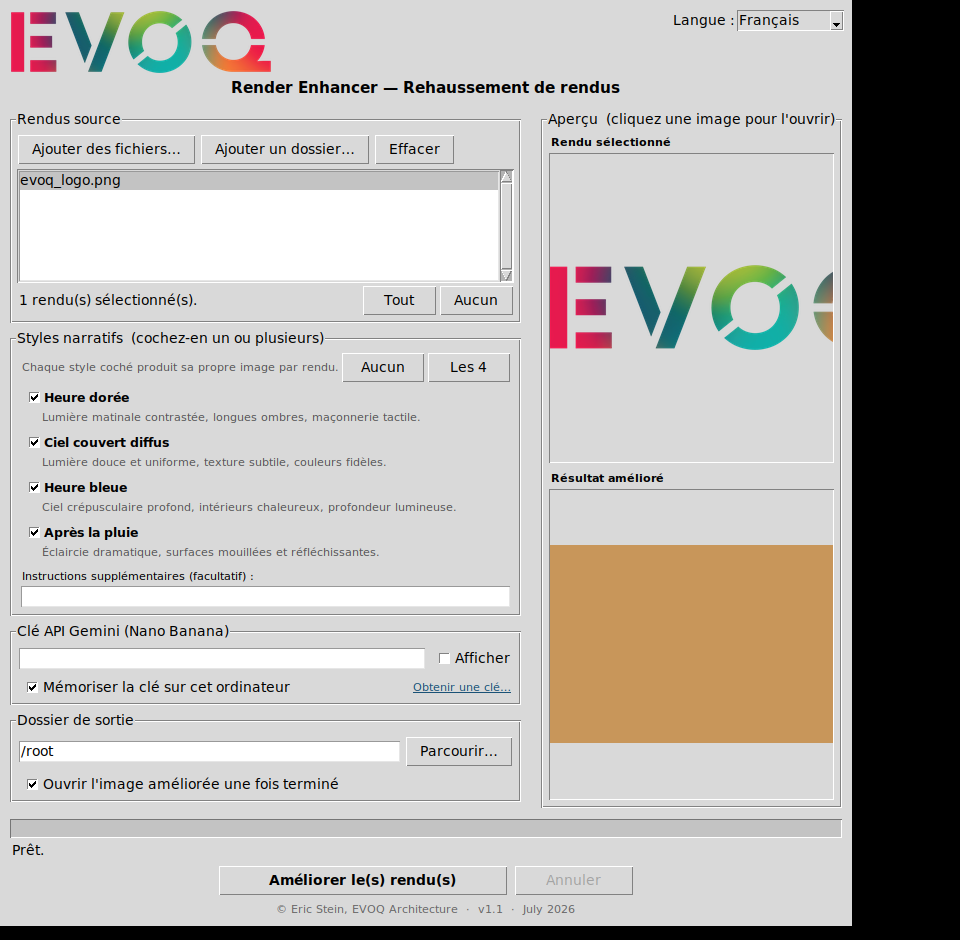
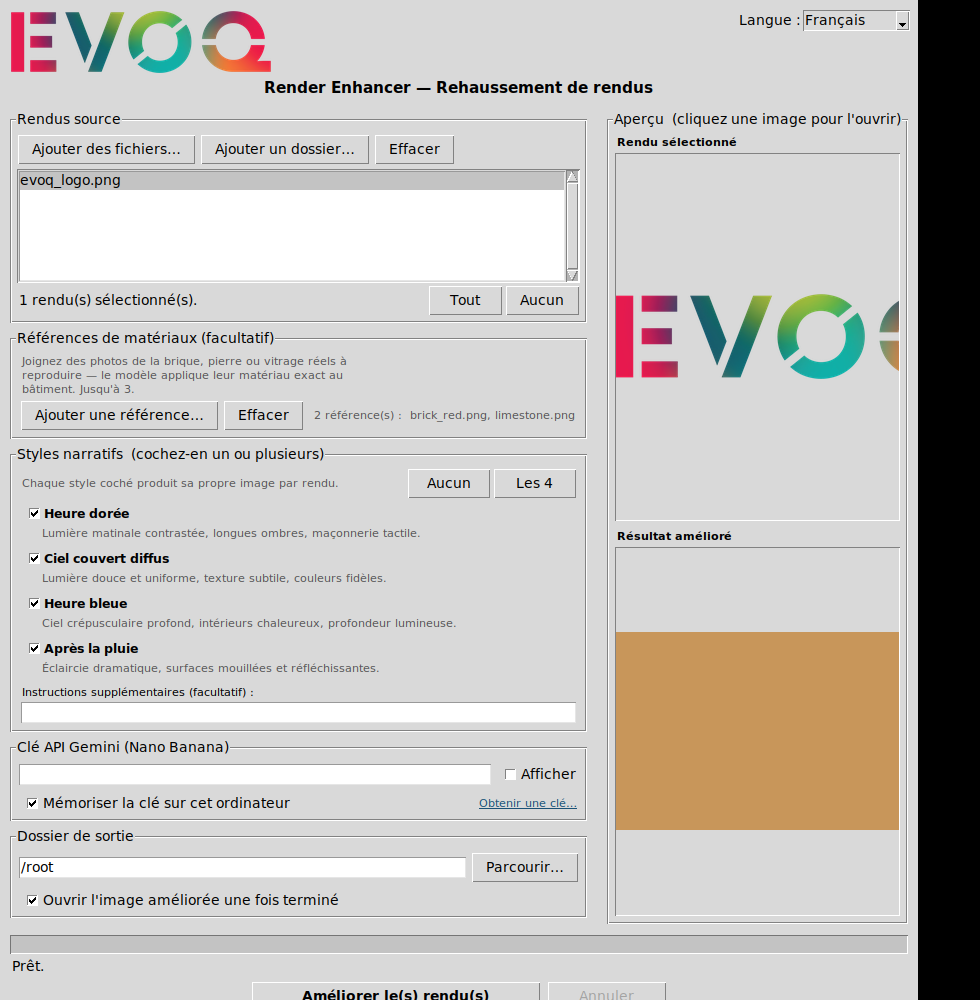
Render Enhancer: attach material reference photos for brick/stone/glass fidelity
Add an optional 'Material References' panel to attach up to 3 real material
swatch photos (brick, stone, glass). They are sent alongside each render on
every request (downscaled to 1280px) with an instruction to reproduce their
exact colour, texture, mortar, weathering, finish and reflectivity on the
matching surfaces while preserving geometry — the strongest lever for material
realism. Fully localised (EN/FR), capped at 3, preserved across language
switches. README and screenshots updated.

Claude-Session: https://claude.ai/code/session_015eGte1JwQfTwFnQ6eJaJkd

diff --git a/render_enhancer.py b/render_enhancer.py
@@ -63,7 +63,22 @@ GEMINI_ENDPOINT = (
 
 IMAGE_EXTS = {'.jpg', '.jpeg', '.png', '.webp', '.bmp'}
 MAX_UPLOAD_PX = 2048   # downscale huge renders before upload to stay within limits
+MAX_REF_PX = 1280      # material reference swatches need less resolution
+MAX_REFS = 3           # max material reference images per request
 REQUEST_TIMEOUT = 180  # seconds per image
+
+# Appended to the prompt when material reference photos are attached.
+REF_INSTRUCTION = (
+    "\nMaterial reference: the FIRST attached image is the architectural render "
+    "to enhance; the remaining attached image(s) are real material reference "
+    "photographs. Faithfully reproduce the exact materials shown in those "
+    "references — the brick, stone, metal and glass — matching their true colour, "
+    "surface texture, mortar joints, weathering, finish and reflectivity, and "
+    "apply them to the corresponding surfaces of the building. Do not copy the "
+    "references' shapes, lighting or composition; use them only as material "
+    "samples, while strictly preserving the render's geometry, viewpoint and "
+    "proportions."
+)
 MAX_RETRIES = 3        # attempts per request on transient errors
 RETRYABLE_STATUS = {429, 500, 502, 503, 504}
 
@@ -183,6 +198,15 @@ I18N = {
         "count_some": "{sel} of {total} renders selected.",
         "no_images_title": "No Images",
         "no_images_msg": "No images found in that folder.",
+        "ref_frame": "Material References (optional)",
+        "ref_hint": ("Attach photos of the real brick, stone or glass to "
+                     "reproduce — the model copies their exact material onto the "
+                     "building. Up to 3."),
+        "ref_add": "Add reference…",
+        "ref_none": "No references.",
+        "ref_count": "{n} reference(s):",
+        "ref_max": "You can attach at most {n} material references.",
+        "sel_refs": "Select Material References",
         "narr_frame": "Narrative Styles  (tick one or more)",
         "narr_hint": "Each ticked style produces its own image per render.",
         "all4": "All 4",
@@ -263,6 +287,15 @@ I18N = {
         "count_some": "{sel} de {total} rendus sélectionnés.",
         "no_images_title": "Aucune image",
         "no_images_msg": "Aucune image trouvée dans ce dossier.",
+        "ref_frame": "Références de matériaux (facultatif)",
+        "ref_hint": ("Joignez des photos de la brique, pierre ou vitrage réels à "
+                     "reproduire — le modèle applique leur matériau exact au "
+                     "bâtiment. Jusqu'à 3."),
+        "ref_add": "Ajouter une référence…",
+        "ref_none": "Aucune référence.",
+        "ref_count": "{n} référence(s) :",
+        "ref_max": "Vous pouvez joindre au maximum {n} références de matériaux.",
+        "sel_refs": "Sélectionner les références de matériaux",
         "narr_frame": "Styles narratifs  (cochez-en un ou plusieurs)",
         "narr_hint": "Chaque style coché produit sa propre image par rendu.",
         "all4": "Les 4",
@@ -388,15 +421,15 @@ def _retry_after(resp):
         return None
 
 
-def _encode_image(path):
+def _encode_image(path, max_px=MAX_UPLOAD_PX):
     """Load, EXIF-correct, downscale if huge, return (base64_png, mime)."""
     with Image.open(path) as img:
         img = ImageOps.exif_transpose(img)
         if img.mode not in ('RGB', 'RGBA'):
             img = img.convert('RGB')
         w, h = img.width, img.height
-        if max(w, h) > MAX_UPLOAD_PX:
-            ratio = MAX_UPLOAD_PX / max(w, h)
+        if max(w, h) > max_px:
+            ratio = max_px / max(w, h)
             img = img.resize((int(w * ratio), int(h * ratio)), Image.LANCZOS)
         import io
         buf = io.BytesIO()
@@ -405,13 +438,14 @@ def _encode_image(path):
 
 
 def enhance_image(api_key, prompt, image_path, status_cb=None, should_cancel=None,
-                  messages=None):
+                  messages=None, ref_paths=None):
     """Call Gemini image model. Returns raw bytes of the enhanced image.
 
     Transient failures (429 / 5xx / network) are retried with exponential
     backoff. Passing should_cancel (a callable returning bool) lets a running
     batch be aborted between attempts. messages optionally supplies localised
-    'retry_net' / 'retry_busy' templates for status_cb.
+    'retry_net' / 'retry_busy' templates for status_cb. ref_paths is an optional
+    list of material-reference image paths sent alongside the render.
     """
     if not HAS_REQUESTS:
         raise GeminiError("The 'requests' library is not installed.")
@@ -421,15 +455,21 @@ def enhance_image(api_key, prompt, image_path, status_cb=None, should_cancel=Non
     msg_busy = (messages or {}).get(
         "retry_busy", "Gemini busy (HTTP {code}) — retrying in {wait}s ({a}/{m})…")
 
+    refs = ref_paths or []
+    if refs:
+        prompt = prompt + REF_INSTRUCTION
+
     b64, mime = _encode_image(image_path)
+    parts = [
+        {"text": prompt},
+        {"inline_data": {"mime_type": mime, "data": b64}},
+    ]
+    for ref in refs[:MAX_REFS]:
+        rb64, rmime = _encode_image(ref, max_px=MAX_REF_PX)
+        parts.append({"inline_data": {"mime_type": rmime, "data": rb64}})
+
     body = {
-        "contents": [{
-            "role": "user",
-            "parts": [
-                {"text": prompt},
-                {"inline_data": {"mime_type": mime, "data": b64}},
-            ],
-        }],
+        "contents": [{"role": "user", "parts": parts}],
         "generationConfig": {"responseModalities": ["TEXT", "IMAGE"]},
     }
     headers = {
@@ -542,6 +582,8 @@ class App(_AppBase):
         self.minsize(720, 660)
         self._image_order = []
         self._image_set = set()
+        self._ref_order = []
+        self._ref_set = set()
         self._logo_img = None
         self._icon_img = None
         self._orig_preview = None
@@ -565,6 +607,7 @@ class App(_AppBase):
         self.lang_var = tk.StringVar(
             value=next(n for n, c in LANGUAGES if c == self._lang))
         self.count_var = tk.StringVar()
+        self.ref_count_var = tk.StringVar()
         self.narrative_vars = {n["key"]: tk.BooleanVar(value=(i == 0))
                                for i, n in enumerate(NARRATIVES)}
         self.extra_var = tk.StringVar()
@@ -648,6 +691,7 @@ class App(_AppBase):
         self.rowconfigure(2, weight=1)
 
         self._build_image_panel(left)
+        self._build_ref_panel(left)
         self._build_narrative_panel(left)
         self._build_api_panel(left)
         self._build_output_panel(left)
@@ -714,6 +758,23 @@ class App(_AppBase):
                   width=5).pack(side="right", padx=(2, 0))
         tk.Button(count_row, text=self.t("all"), command=self._select_all,
                   width=5).pack(side="right")
+
+    def _build_ref_panel(self, parent):
+        frame = tk.LabelFrame(parent, text=self.t("ref_frame"))
+        frame.pack(fill="x", pady=(0, 6))
+        tk.Label(frame, text=self.t("ref_hint"), fg="#555",
+                 font=("Segoe UI", 8), wraplength=360, justify="left").pack(
+            anchor="w", padx=8, pady=(4, 0))
+        row = tk.Frame(frame)
+        row.pack(fill="x", padx=8, pady=(2, 6))
+        tk.Button(row, text=self.t("ref_add"),
+                  command=self._browse_refs).pack(side="left", padx=(0, 4))
+        tk.Button(row, text=self.t("clear"),
+                  command=self._clear_refs).pack(side="left")
+        tk.Label(row, textvariable=self.ref_count_var, anchor="w",
+                 fg="#555", font=("Segoe UI", 8)).pack(
+            side="left", padx=(8, 0), expand=True, fill="x")
+        self._refresh_ref_count()
 
     def _build_narrative_panel(self, parent):
         frame = tk.LabelFrame(parent, text=self.t("narr_frame"))
@@ -927,6 +988,40 @@ class App(_AppBase):
     def _get_selected(self):
         return [self._image_order[i] for i in self._listbox.curselection()]
 
+    # ── Material reference management ───────────────────────────────────────────
+    def _browse_refs(self):
+        paths = filedialog.askopenfilenames(
+            title=self.t("sel_refs"),
+            filetypes=[(self.t("filetype_images"), "*.jpg *.jpeg *.png *.webp *.bmp"),
+                       (self.t("filetype_all"), "*.*")])
+        if paths:
+            self._add_refs(list(paths))
+
+    def _add_refs(self, paths):
+        for path in paths:
+            if len(self._ref_order) >= MAX_REFS:
+                messagebox.showinfo(self.t("ref_frame"),
+                                    self.t("ref_max", n=MAX_REFS))
+                break
+            if path in self._ref_set:
+                continue
+            self._ref_order.append(path)
+            self._ref_set.add(path)
+        self._refresh_ref_count()
+
+    def _clear_refs(self):
+        self._ref_order.clear()
+        self._ref_set.clear()
+        self._refresh_ref_count()
+
+    def _refresh_ref_count(self):
+        n = len(self._ref_order)
+        if n == 0:
+            self.ref_count_var.set(self.t("ref_none"))
+        else:
+            names = ", ".join(os.path.basename(p) for p in self._ref_order)
+            self.ref_count_var.set(self.t("ref_count", n=n) + "  " + names)
+
     # ── Preview rendering ────────────────────────────────────────────────────────
     def _show_original_preview(self, path):
         img = self._make_thumb(path)
@@ -1046,6 +1141,7 @@ class App(_AppBase):
 
         self._persist_config()
         jobs = [(path, n) for path in images for n in narratives]
+        refs = list(self._ref_order)
         retry_msgs = {"retry_net": self.t("retry_net"),
                       "retry_busy": self.t("retry_busy")}
 
@@ -1080,7 +1176,8 @@ class App(_AppBase):
                         api_key, prompt, path,
                         status_cb=status,
                         should_cancel=self._cancel.is_set,
-                        messages=retry_msgs)
+                        messages=retry_msgs,
+                        ref_paths=refs)
                     out_path = self._output_path(output_dir, path, narrative["key"])
                     with open(out_path, 'wb') as f:
                         f.write(data)

diff --git a/RENDER_ENHANCER_README.md b/RENDER_ENHANCER_README.md
@@ -44,9 +44,12 @@ narrative for any run.
 1. Add one or more renders (drag-and-drop, **Add Files…**, or **Add Folder…**).
    Supported: JPG, PNG, WEBP, BMP.
 2. Select the renders you want to enhance in the list.
-3. Tick one or more narrative styles (or **All 4**).
-4. Choose an output folder.
-5. Click **Enhance Render(s)**. Use **Cancel** to stop a batch mid-run.
+3. *(Optional but recommended for material fidelity)* attach up to **3 material
+   reference photos** — close-ups of the real brick, stone or glass — via
+   **Material References → Add reference…**. See below.
+4. Tick one or more narrative styles (or **All 4**).
+5. Choose an output folder.
+6. Click **Enhance Render(s)**. Use **Cancel** to stop a batch mid-run.
 
 Each result is saved as `<originalname>_<style>.png` in the output folder, and
 the latest result is previewed in the window. Click either preview image to open
@@ -56,6 +59,20 @@ to 2048 px on the long edge before upload.
 Transient API errors (rate limits, server hiccups, network blips) are retried
 automatically with exponential backoff, so a single glitch won't fail a whole
 batch.
+
+### Material references (for accurate brick, stone & glass)
+
+The single biggest lever for material realism is showing the model the *actual*
+specified materials. Attach 1–3 close-up photos of the real brick, stone or
+glazing and the model reproduces their exact colour, texture, mortar joints,
+weathering, finish and reflectivity on the matching surfaces of the building —
+instead of inventing generic materials — while keeping the geometry unchanged.
+
+- Use tightly-cropped material swatches (a wall of the brick, a stone sample, a
+  glazing close-up), not full scenes; the model treats them as material samples,
+  not compositions to copy.
+- References apply to every render and every style in the run.
+- They are sent alongside each render on every request (downscaled to 1280 px).
 
 ## Building the Windows .exe
 
